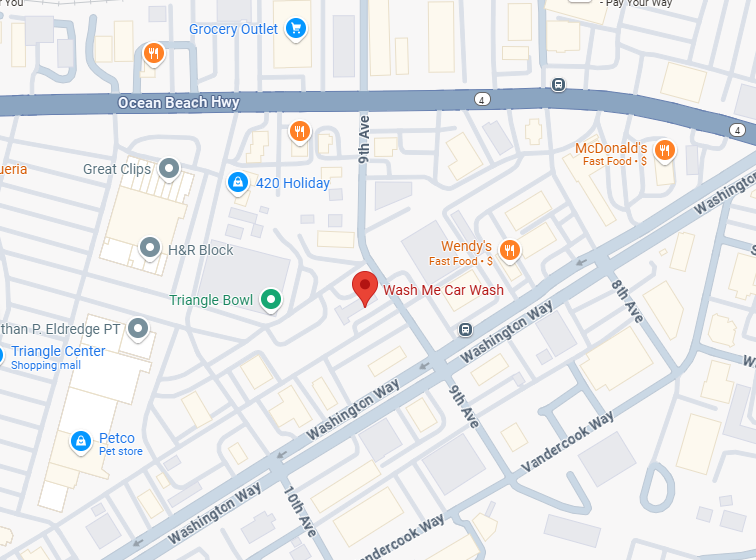
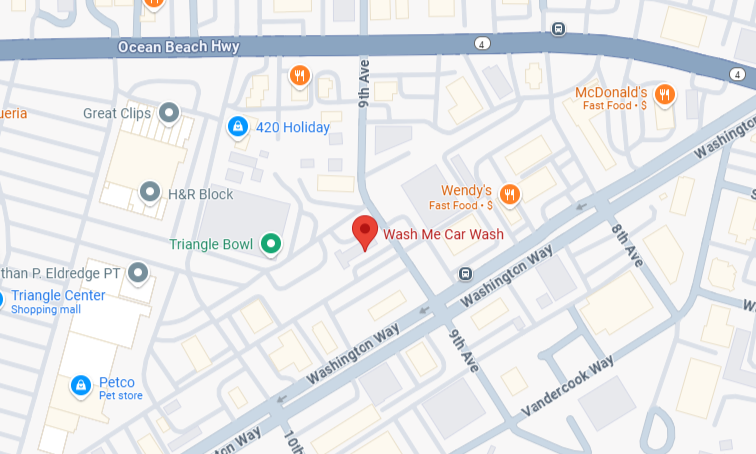
Location image size edited

diff --git a/src/components/ThanksgivingPopup.tsx b/src/components/ThanksgivingPopup.tsx
@@ -38,7 +38,7 @@ const ThanksgivingPopup: React.FC<ThanksgivingPopupProps> = ({ delay = 5000 }) =
             Happy Thanksgiving!
           </DialogTitle>
           <DialogDescription className="text-center">
-            <div className="relative w-full h-[92%] my-4">
+            <div className="relative w-full h-full my-4">
               <Image
                 src="/thanksgiving.jpg"
                 alt="Thanksgiving celebration"

diff --git a/src/components/Map.tsx b/src/components/Map.tsx
@@ -33,7 +33,7 @@ const LocationInfo = React.memo(({ address }: any) => {
         <Image
           draggable={false}
           width={700}
-          height={400}
+          height={200}
           alt="Map Image"
           className="rounded-xl"
           src="/location.png"
